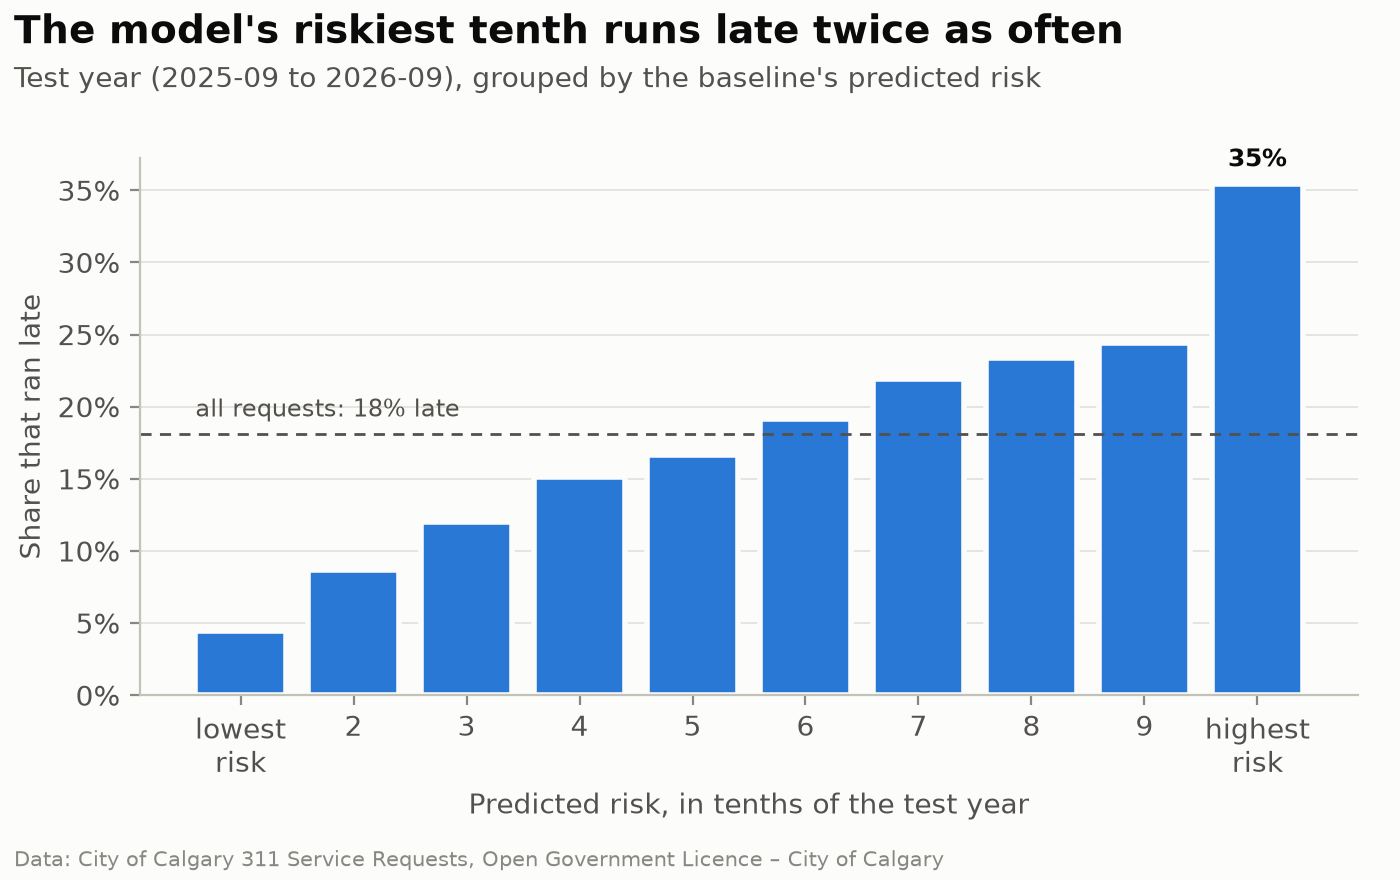
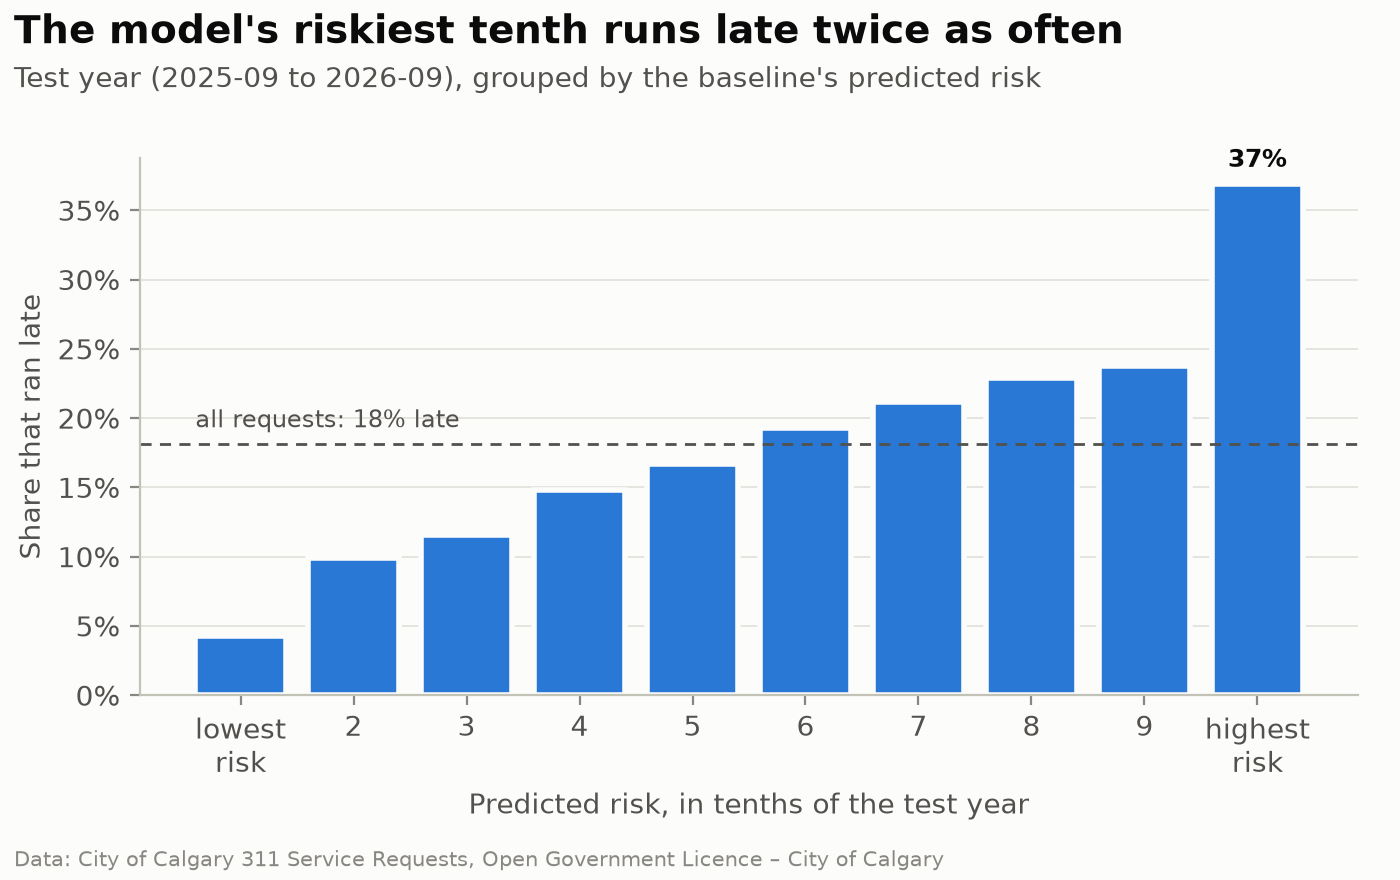
Pin xgboost 3.2.0 to match the SageMaker image; notebook 02 now matches the job (2.04x)

diff --git a/scripts/architecture_gen.py b/scripts/architecture_gen.py
@@ -113,14 +113,15 @@ NODES: dict[str, tuple] = {
     "athena":     ("Amazon Athena", "2 GB scan cap", "analytics", "mxgraph.aws4.athena", 730, 200, 1),
     "cond":       ("Condition step", "PR-AUC ≥ floor", "security", "mxgraph.aws4.sagemaker", 970, 200, 4),
     "ecr":        ("Amazon ECR", "XGBoost image", "compute", "mxgraph.aws4.elastic_container_registry", 490, 290, 2),
-    "sm_proc":    ("SageMaker Processing", "split / evaluate", "ml", "mxgraph.aws4.sagemaker", 730, 290, 2),
-    "sm_train":   ("SageMaker Training", "XGBoost · m5.large spot", "ml", "mxgraph.aws4.sagemaker", 970, 290, 2),
+    "sm_proc":    ("SageMaker Processing", "split / evaluate", "ml", "mxgraph.aws4.sagemaker", 970, 290, 3),
+    # D-039: no Training Job quota, so the model trains in a Processing job
+    "sm_train":   ("SageMaker Processing", "train · XGBoost · t3.xlarge", "ml", "mxgraph.aws4.sagemaker", 730, 290, 2),
     "registry":   ("SageMaker Model Registry", "Model Package Group", "ml", "mxgraph.aws4.sagemaker", 1210, 120, 4),
     "approver":   ("Approver IAM", "separate principal", "security", "mxgraph.aws4.identity_and_access_management_iam", 1210, 200, 4),
     "champ":      ("champion / challenger", "vs approved model", "ml", "mxgraph.aws4.sagemaker", 1210, 290, 5),
     "serverless": ("SageMaker Serverless", "one-off demo · deleted", "ml", "mxgraph.aws4.sagemaker", 1450, 200, 6),
     "cwmetric":   ("CloudWatch metrics", "MLOpsAIOps/Pipeline", "mgmt", "mxgraph.aws4.cloudwatch", 1450, 290, 3),
-    "batch":      ("SageMaker Batch Transform", "score open requests", "ml", "mxgraph.aws4.sagemaker", 730, 380, 6),
+    "batch":      ("SageMaker Processing", "batch-score open requests", "ml", "mxgraph.aws4.sagemaker", 730, 380, 6),
     "monitor":    ("SageMaker Model Monitor", "baseline + schedule", "ml", "mxgraph.aws4.sagemaker", 970, 380, 7),
     "anomaly":    ("Anomaly detection", "EWMA · pipeline + civic", "compute", "mxgraph.aws4.lambda", 1210, 380, 7),
     "oidc":       ("IAM OIDC role", "github-actions", "security", "mxgraph.aws4.identity_and_access_management_iam", 250, 470, 5),
@@ -142,9 +143,10 @@ EDGES: list[tuple] = [
     ("glue", "athena", "", 1, False),
     ("cwlog", "sns", "", 1, False),
     ("budgets", "sns", "", 1, True),
-    ("athena", "sm_proc", "training CSV", 2, False),
+    ("s3_proc", "sm_train", "Parquet", 2, False),
     ("ecr", "sm_train", "", 2, False),
-    ("sm_proc", "sm_train", "", 2, False),
+    ("athena", "sm_proc", "training CSV", 3, False),
+    ("sm_proc", "sm_train", "", 3, False),
     ("sm_train", "s3_model", "", 2, False),
     ("sm_pipe", "sm_proc", "", 3, False),
     ("sm_pipe", "sm_train", "", 3, False),

diff --git a/docs/exploratory-findings.md b/docs/exploratory-findings.md
@@ -272,7 +272,7 @@ Threshold computed on train only. Features: `service_name`, `agency_responsible`
 
 | If the team reviews the model's… | …share that actually breach | Lift vs base |
 |---|---|---|
-| top 10% flagged | **77%** | **2.8×** (full data: 35% / 2.0×, D-037) |
+| top 10% flagged | **77%** | **2.8×** (full data: 37% / 2.0×, D-037, D-039) |
 | top 25% flagged | 49% | 1.8× |
 
 **Interpretation:**
